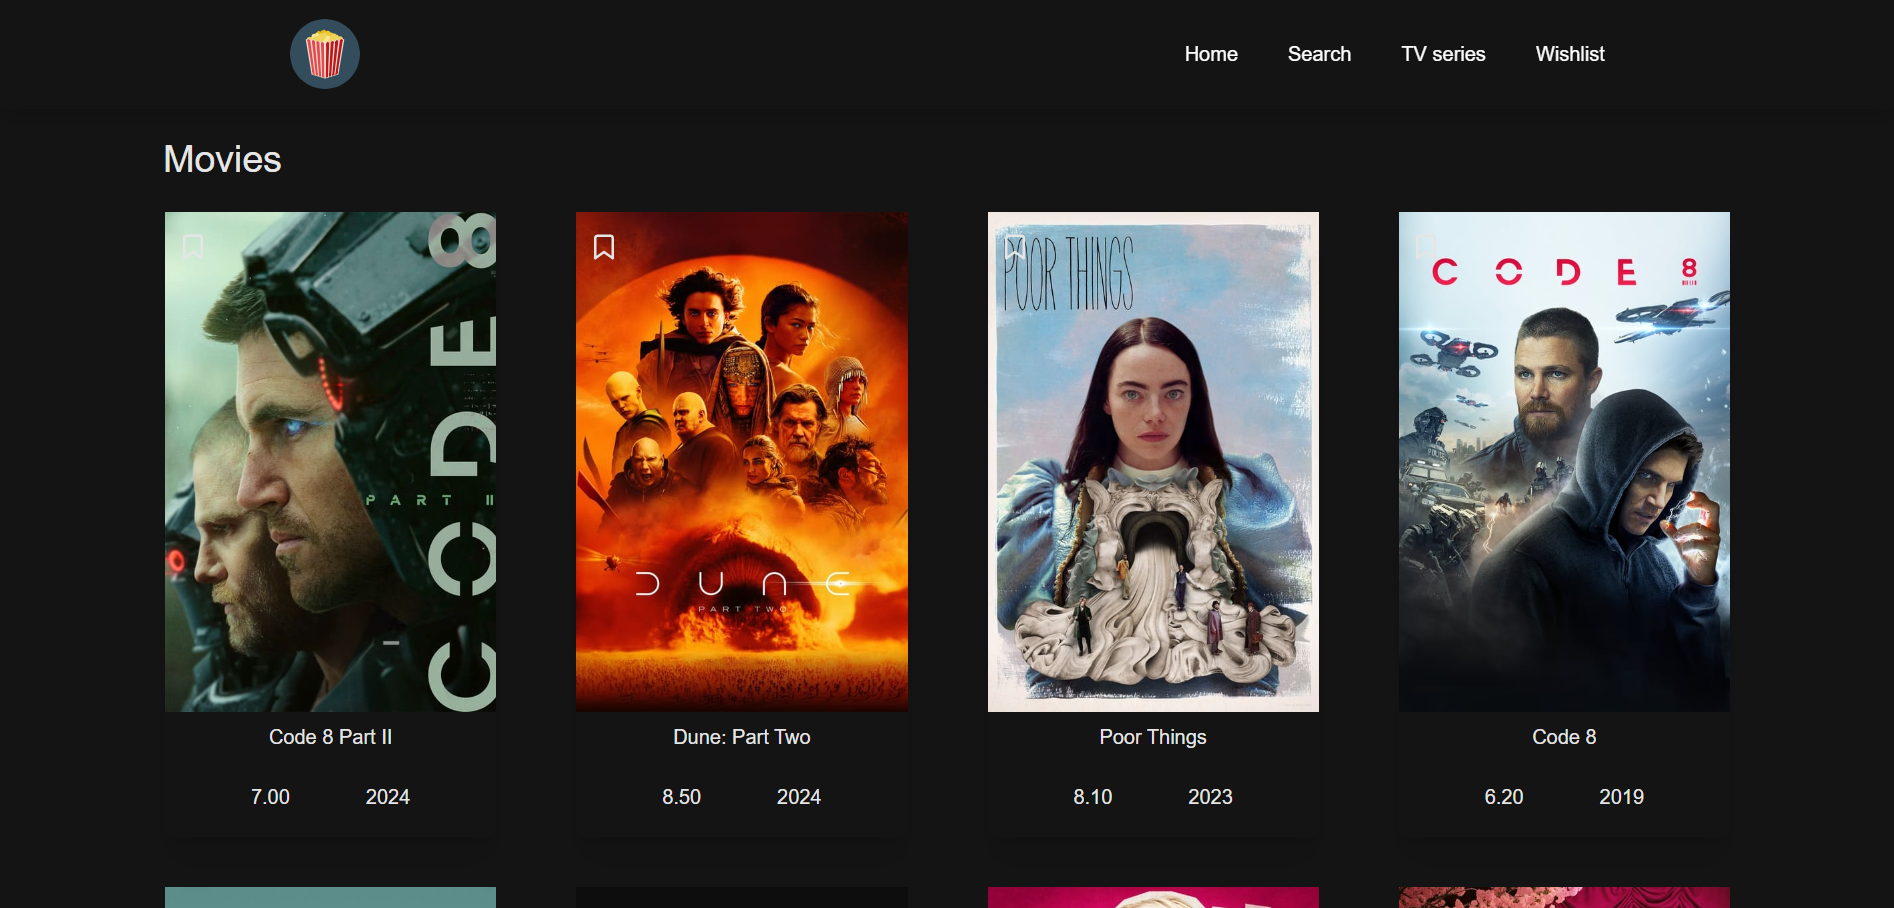
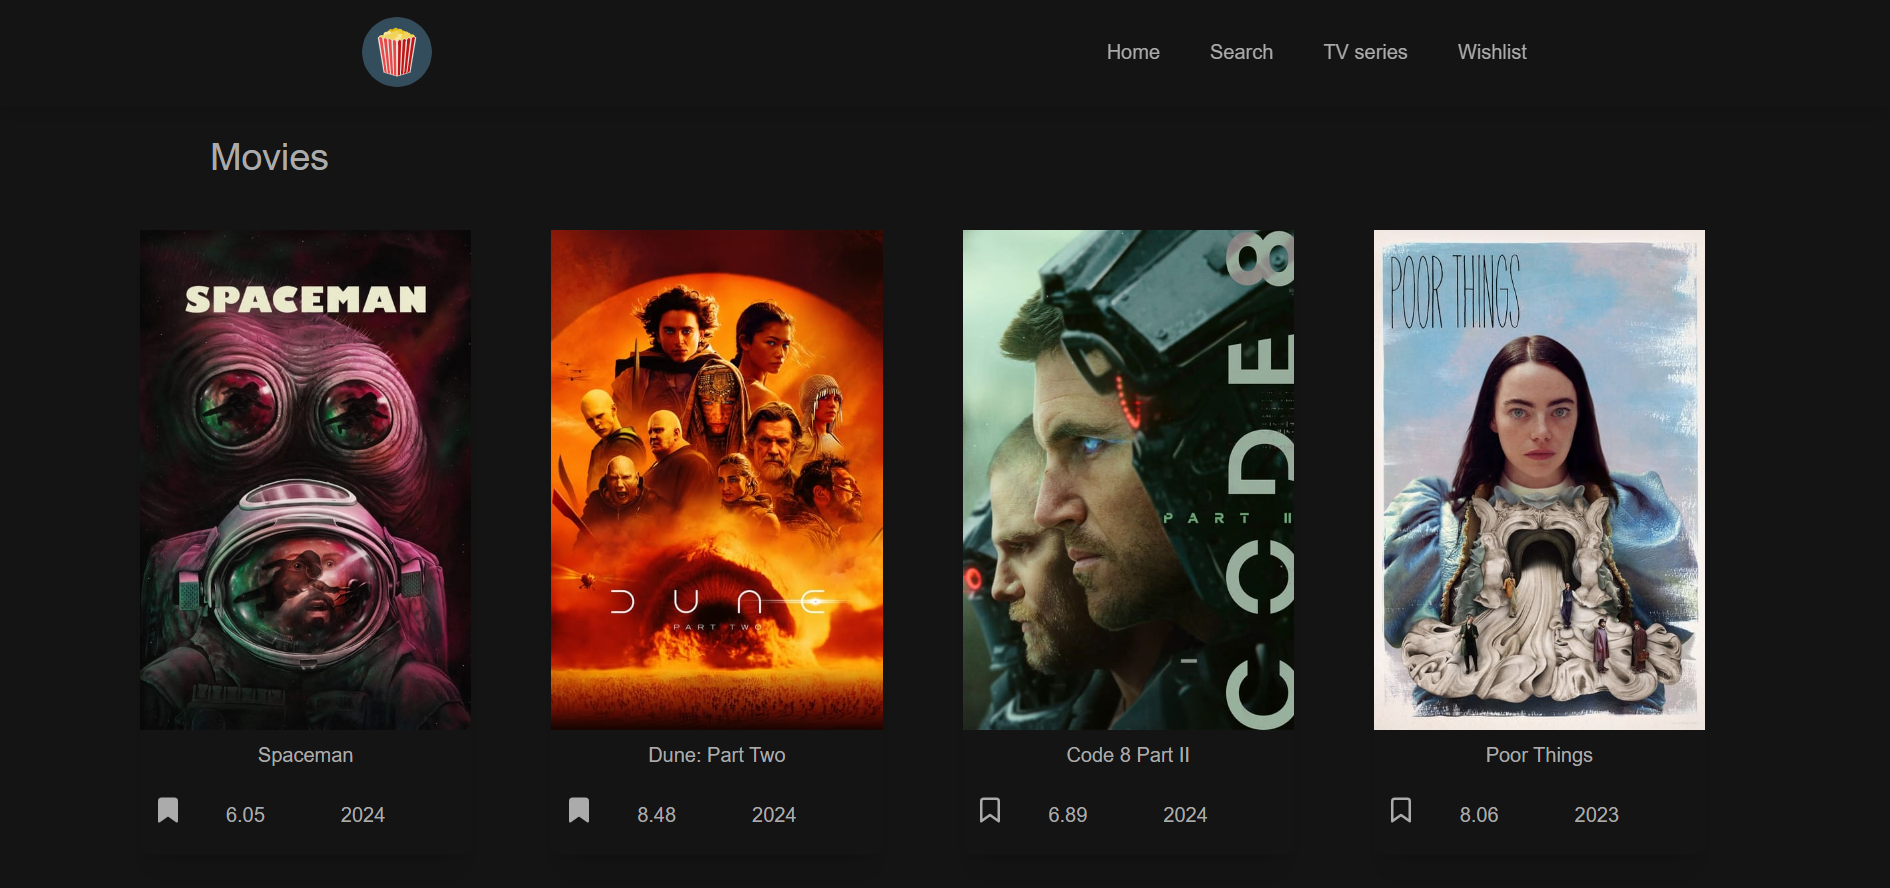
responsive design bug fixed

diff --git a/css/main.css b/css/main.css
@@ -124,18 +124,19 @@ body {
 .card {
   max-width: 580px;
   min-height: 434px;
+  height: 510px;
   background-color: #ffffff;
   border-radius: 10px;
   box-shadow: 0px 10px 40px rgba(126, 155, 189, 0.5);
   transition: transform 0.2s ease-in;
 
-  .card-desription {
+  /* .card-desription {
     height: 62px;
-  }
+  } */
 
-  .card-tools {
+  /* .card-tools {
     height: 42px;
-  }
+  } */
 }
 
 .card:hover {
@@ -144,8 +145,12 @@ body {
 
 .card-link {
   display: block;
-  padding: 20px 40px;
+  padding: 30px 40px;
   transition: color 0.2s ease-in;
+  display: flex;
+  height: 100%;
+  justify-content: space-around;
+  flex-direction: column;
 }
 
 .card-link:hover {

diff --git a/index.html b/index.html
@@ -106,7 +106,7 @@
               >
                 <img
                   class="card-img"
-                  src="./img/portfolio/MovieSearch.png"
+                  src="./img/portfolio/MovieSearch_1.png"
                   alt="main page"
                 />
                 <h3 class="card-title">Movie Search App</h3>
